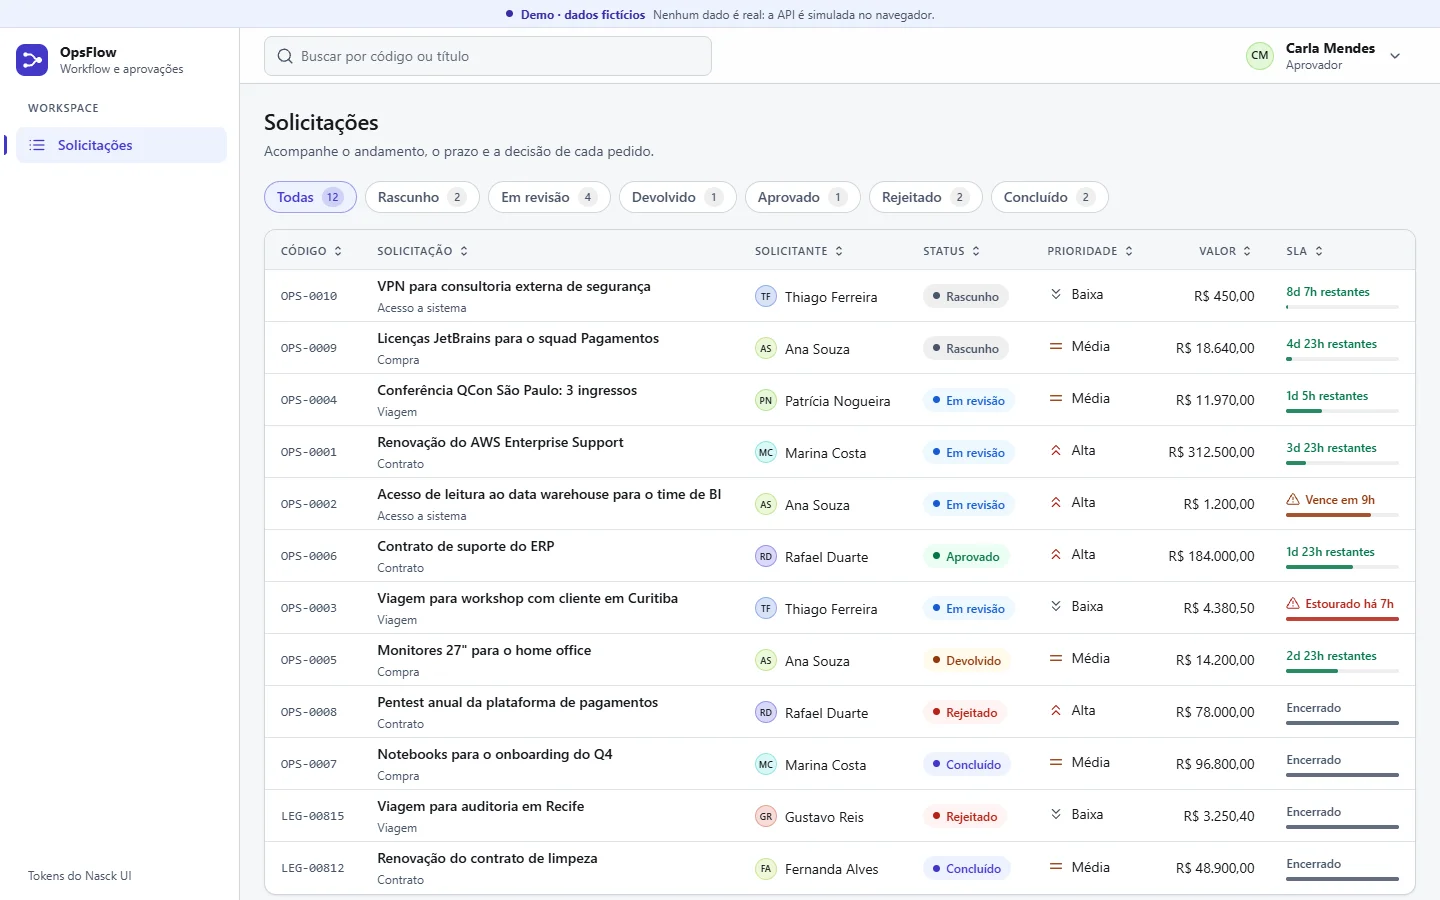
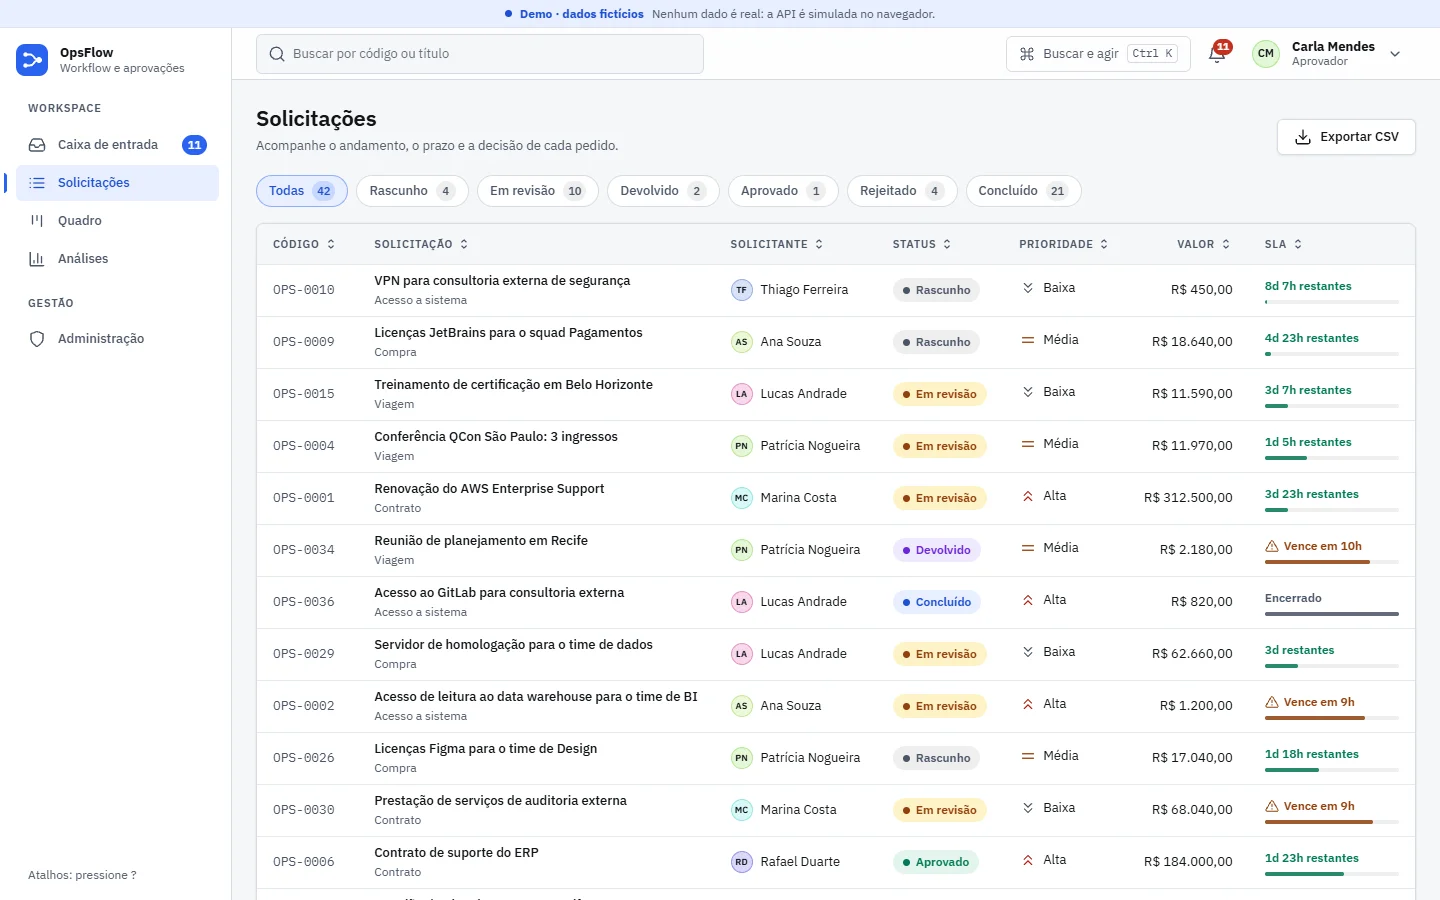
feat: clean mobile overflow, a11y labels, new prints and README for the expanded scope

diff --git a/src/app/core/i18n/translations-features.ts b/src/app/core/i18n/translations-features.ts
@@ -60,8 +60,8 @@ export const featurePt = {
   'inbox.preset.urgent': 'Vencendo',
   'inbox.preset.high': 'Alta prioridade',
   'inbox.preset.contracts': 'Contratos',
-  'inbox.anyPriority': 'Qualquer prioridade',
-  'inbox.anyCategory': 'Qualquer categoria',
+  'inbox.anyPriority': 'Prioridade',
+  'inbox.anyCategory': 'Categoria',
   'inbox.saveFilter': 'Salvar filtro',
   'inbox.filterName': 'Nome do filtro',
   'inbox.save': 'Salvar',
@@ -241,8 +241,8 @@ export const featureEn: Readonly<Record<keyof typeof featurePt, string>> = {
   'inbox.preset.urgent': 'Due soon',
   'inbox.preset.high': 'High priority',
   'inbox.preset.contracts': 'Contracts',
-  'inbox.anyPriority': 'Any priority',
-  'inbox.anyCategory': 'Any category',
+  'inbox.anyPriority': 'Priority',
+  'inbox.anyCategory': 'Category',
   'inbox.saveFilter': 'Save filter',
   'inbox.filterName': 'Filter name',
   'inbox.save': 'Save',

diff --git a/src/app/features/inbox/inbox.html b/src/app/features/inbox/inbox.html
@@ -48,10 +48,6 @@
           }
         </select>
       </label>
-      <label class="check">
-        <input type="checkbox" [checked]="filter().urgentOnly" (change)="patchFilter({ urgentOnly: !filter().urgentOnly })" />
-        {{ 'inbox.preset.urgent' | t }}
-      </label>
       @if (isCustomFilter()) {
         @if (naming()) {
           <form class="name-form" (submit)="$event.preventDefault(); saveFilter(nameField.value)">

diff --git a/src/app/core/ui/toasts.ts b/src/app/core/ui/toasts.ts
@@ -82,9 +82,9 @@ const ICONS: Readonly<Record<ToastKind, IconName>> = {
     }
     @media (max-width: 959px) {
       :host {
-        left: 50%;
-        right: auto;
-        transform: translateX(-50%);
+        left: 0;
+        right: 0;
+        margin: 0 auto;
         bottom: calc(var(--ox-bottomnav-h) + var(--ox-safe-bottom) + var(--ox-space-3));
       }
     }

diff --git a/src/app/features/requests/request-list/request-list.scss b/src/app/features/requests/request-list/request-list.scss
@@ -31,6 +31,7 @@
 }
 
 .chips {
+  position: relative;
   display: flex;
   gap: var(--ox-space-2);
   overflow-x: auto;
@@ -91,6 +92,7 @@
 
 /* Tabela (desktop) */
 .table-wrap {
+  position: relative;
   display: none;
   overflow: hidden;
 }

diff --git a/src/app/features/admin/admin.scss b/src/app/features/admin/admin.scss
@@ -15,6 +15,7 @@
 }
 
 .scroll {
+  position: relative;
   overflow-x: auto;
   margin: 0 calc(var(--ox-space-5) * -1) var(--ox-space-3);
   padding: 0 var(--ox-space-5);

diff --git a/src/app/features/board/board.scss b/src/app/features/board/board.scss
@@ -4,6 +4,7 @@
 }
 
 .board {
+  position: relative;
   display: flex;
   gap: var(--ox-space-3);
   align-items: flex-start;

diff --git a/src/app/features/inbox/inbox.scss b/src/app/features/inbox/inbox.scss
@@ -10,6 +10,7 @@
 }
 
 .chips {
+  position: relative;
   display: flex;
   flex-wrap: wrap;
   gap: var(--ox-space-2);

diff --git a/README.md b/README.md
@@ -1,32 +1,93 @@
-# OpsFlow · Enterprise Workflow & Approval Console
+# OpsFlow · A sala de controle das aprovações
 
-Console de workflow com etapas rastreáveis, permissões por papel, trilha de auditoria imutável e suporte multilíngue (pt-BR/en). Dados 100% fictícios; a API é simulada no navegador.
+Console de workflow e aprovações para quem decide o dia inteiro: cada papel abre o app na **caixa de entrada** das próprias tarefas, com SLA em contagem regressiva, aprovação em lote e atalhos de teclado. Por baixo há uma máquina de estados com permissões por papel, segregação de funções e trilha de auditoria imutável.
+
+Todos os dados são fictícios e a API é simulada no navegador (interceptor HTTP), então o app roda inteiro em qualquer hospedagem estática.
+
+**Demo:** https://nasckdev.github.io/opsflow/
 
 ## Telas
 
-Console com sidebar, barra superior com busca e menu de perfil de demonstração (papel, idioma, tema e falhas simuladas da API). No celular, a navegação vira barra inferior e a tabela vira lista de cards. Capturas em desktop (1440x900) e celular (390x844), com os dados fictícios de exemplo.
+Desktop em 1440x900 e celular em 390x844, com os dados fictícios de exemplo.
+
+![Caixa de entrada do aprovador, com SLA em contagem regressiva e ações por tarefa](docs/prints/opsflow-caixa-entrada-desktop.webp)
+
+<img src="docs/prints/opsflow-caixa-entrada-mobile.webp" alt="Caixa de entrada no celular" width="260"> <img src="docs/prints/opsflow-lista-solicitacoes-mobile.webp" alt="Lista de solicitações no celular, em cartões" width="260"> <img src="docs/prints/opsflow-detalhe-auditoria-mobile.webp" alt="Detalhe com auditoria no celular" width="260">
+
+![Quadro kanban por estado, com arrastar e soltar que respeita a máquina de estados](docs/prints/opsflow-quadro-desktop.webp)
+
+![Análises: vazão por semana, cumprimento de SLA, gargalo por etapa e ações por papel](docs/prints/opsflow-analises-desktop.webp)
+
+![Análises no tema escuro](docs/prints/opsflow-analises-escuro-desktop.webp)
 
 ![Lista de solicitações com status, prioridade e SLA](docs/prints/opsflow-lista-solicitacoes-desktop.webp)
 
-![Lista de solicitações no tema escuro](docs/prints/opsflow-lista-escuro-desktop.webp)
+![Lista no tema escuro](docs/prints/opsflow-lista-escuro-desktop.webp)
 
-![Detalhe de uma solicitação aprovada, com decisão contextual e linha do tempo de auditoria](docs/prints/opsflow-detalhe-auditoria-desktop.webp)
+![Detalhe com cadeia de aprovação, decisão contextual, comentários e auditoria](docs/prints/opsflow-detalhe-auditoria-desktop.webp)
+
+![Paleta de comandos (Ctrl+K)](docs/prints/opsflow-paleta-desktop.webp)
+
+![Matriz de permissões (RBAC)](docs/prints/opsflow-admin-desktop.webp)
 
 ![Wizard de nova solicitação, etapa de detalhes](docs/prints/opsflow-wizard-detalhes-desktop.webp)
 
 ![Wizard de nova solicitação, etapa de revisão](docs/prints/opsflow-wizard-revisao-desktop.webp)
 
-<img src="docs/prints/opsflow-lista-solicitacoes-mobile.webp" alt="Lista de solicitações no celular" width="260"> <img src="docs/prints/opsflow-detalhe-auditoria-mobile.webp" alt="Detalhe com auditoria no celular" width="260">
+## O que o produto faz
 
-## Design
+- **Caixa de entrada por papel.** "Minhas tarefas" com contagem regressiva de SLA, filtros rápidos e salvos, aprovação em lote (só do que não exige justificativa) e atalhos `j`/`k`, `Enter`, `x`, `a`, `r`.
+- **Quadro kanban.** Arrastar com CDK DragDrop. Colunas que aceitam o movimento acendem durante o arraste; um movimento que a máquina de estados não prevê, ou que o papel não pode fazer, é bloqueado com explicação. Alternativa sem mouse: "Mover para" em cada cartão.
+- **Detalhe.** Cabeçalho com status e SLA, cadeia de aprovação (solicitação, revisão, aprovação, conclusão), ações conforme o papel, comentários em thread, anexos simulados e linha do tempo de auditoria.
+- **Nova solicitação.** Wizard em três etapas com validação, **rascunho salvo automaticamente** (recuperado ao recarregar) e revisão antes de enviar.
+- **Análises.** Vazão por semana, cumprimento de SLA, gargalo por etapa e ações por papel. Todo gráfico tem versão em tabela e descrição para leitor de tela.
+- **Administração.** Matriz de permissões visual, usuários de demonstração (atuar como) e as regras do fluxo.
+- **Lista de solicitações.** Tabela densa (ordenação por coluna, contadores por status, busca com debounce) que vira cartões no celular, e exportação em CSV (com proteção contra injeção de fórmula).
+- **Navegação de app.** Sidebar no desktop, barra inferior no celular, busca global, paleta de comandos (`Ctrl`/`⌘` + `K`), notificações, modal de atalhos (`?`) e estado na URL (rota por hash).
+- **Preferências.** Papel, idioma (pt-BR e English, com plural correto), tema claro e escuro, densidade compacta ou confortável e "Simular falhas da API".
 
-O visual usa os tokens do design system Nasck UI (cores, espaçamento, raio, sombra, tipografia e movimento), copiados sem alteração para `src/styles/tokens.css` (origem e commit no cabeçalho do arquivo). O que o Nasck UI ainda não define (medidas do shell, aliases de superfície por tema) fica em `src/styles/base.scss`, com prefixo `--ox-`. Tema claro e escuro, foco visível, contraste AA, link de pular para o conteúdo e `prefers-reduced-motion` respeitado.
+## Atalhos
+
+| Tecla | Ação |
+|---|---|
+| `Ctrl`/`⌘` + `K` | Paleta de comandos |
+| `?` | Lista de atalhos |
+| `/` | Ir para a busca |
+| `g` `i` / `g` `r` / `g` `b` / `g` `a` | Caixa de entrada / solicitações / quadro / análises |
+| `j` `k` | Próxima e anterior tarefa (caixa de entrada) |
+| `Enter` / `x` / `a` / `r` | Abrir / selecionar para lote / aprovar / rejeitar ou devolver |
+
+## Identidade visual
+
+IBM Plex Sans na interface e IBM Plex Mono em códigos, IDs e prazos, ambas auto-hospedadas via `@fontsource` (nenhuma requisição externa). Grafite `#111418` e aço `#1C2128` no escuro, azul elétrico `#2F6BFF` como marca e ciano de destaque. Estados com cor semântica e sempre acompanhados de texto ou ícone: aprovado esmeralda, pendente âmbar, devolvido violeta, rejeitado vermelho, rascunho cinza. Cantos de 4 a 8 px e densidade ajustável.
+
+Os tokens vivem em `src/styles/tokens.scss`; as medidas do shell e os aliases de superfície, em `src/styles/base.scss`. No tema claro o ciano de gráficos é um tom mais escuro que o da marca, para manter 3:1 de contraste contra o fundo branco.
 
 ## Stack
 
-Angular 22 (standalone, signals, zoneless, control flow `@if/@for`), formulários reativos tipados, RxJS (busca com debounce e cancelamento via `switchMap`), Angular CDK (`LiveAnnouncer`, `Overlay`, `TrapFocus`), Vitest.
+Angular 22 (standalone, signals, zoneless, control flow `@if/@for`), formulários reativos tipados, RxJS (busca com debounce e cancelamento via `switchMap`), Angular CDK (`Overlay`, `Dialog`, `DragDrop`, `TrapFocus`, `LiveAnnouncer`), SCSS, Vitest e Playwright + axe-core. Gráficos em SVG próprio, sem biblioteca.
 
-## Máquina de estados
+## Arquitetura
+
+```mermaid
+flowchart TD
+  UI["Telas (features/*)<br/>caixa de entrada · quadro · detalhe · wizard · análises · admin"]
+  SHELL["Shell e UI de apoio<br/>popovers · paleta · atalhos · toasts"]
+  SVC["Serviços (core/*)<br/>RequestsStore · TransitionService · sessão · i18n · tema"]
+  DOM["Domínio puro (domain/*)<br/>máquina de estados · RBAC · SLA · cadeia · analytics · inbox"]
+  API["RequestsApi (HttpClient)"]
+  MOCK["Interceptor mock<br/>MockDatabase em memória"]
+  UI --> SVC
+  SHELL --> SVC
+  UI --> DOM
+  SVC --> DOM
+  SVC --> API --> MOCK
+  MOCK --> DOM
+```
+
+O domínio é feito só de funções puras e testadas (`src/app/domain`). A interface nunca decide uma regra: ela pergunta ao domínio (`availableActions`, `checkTransition`, `requiresComment`) e o `TransitionService` é o único caminho para executar uma ação, seja pelo detalhe, pelo quadro ou pela caixa de entrada.
+
+### Máquina de estados
 
 ```mermaid
 stateDiagram-v2
@@ -41,9 +102,9 @@ stateDiagram-v2
   completed --> [*]
 ```
 
-Guardas: permissão do papel, estado de origem, segregação de funções (quem criou não decide) e SLA.
+Guardas: permissão do papel, estado de origem, segregação de funções (quem criou não devolve, aprova nem rejeita) e SLA.
 
-## Matriz RBAC
+### Matriz RBAC
 
 | Permissão | Solicitante | Revisor | Aprovador | Auditor | Admin |
 |---|:-:|:-:|:-:|:-:|:-:|
@@ -54,30 +115,63 @@ Guardas: permissão do papel, estado de origem, segregação de funções (quem 
 | request.complete | | | ✓ | | ✓ |
 | audit.view | | ✓ | ✓ | ✓ | ✓ |
 
-Testada por tabela em `src/app/domain/permissions.spec.ts`.
+Testada por tabela em `src/app/domain/permissions.spec.ts` e exibida na tela Administração.
 
-## Migração de legado
+### Migração de legado
 
 `src/app/domain/legacy-adapter.ts` converte o JSON do sistema antigo (`STATUS_CD`, datas `dd/mm/aaaa`, valores `1.234,56`) para o domínio novo, validando cada campo e registrando a migração na auditoria.
+
+## Decisões
+
+1. **Cache único de solicitações (`RequestsStore`).** Caixa de entrada, quadro, análises, notificações e paleta leem do mesmo signal; uma ação em qualquer tela atualiza todas.
+2. **Uma porta para executar ações (`TransitionService`).** Valida no domínio, pede o comentário obrigatório num diálogo, chama a API, atualiza o cache e avisa o usuário. Evita três implementações divergentes da mesma regra.
+3. **Visões derivadas, não novos estados.** Cadeia de aprovação, notificações, caixa de entrada e análises são calculadas a partir da trilha de auditoria. O domínio e a máquina de estados não mudaram.
+4. **Gráficos em SVG próprio.** Controle total de cor, contraste, animação e acessibilidade, sem dependência pesada. Cada gráfico tem tabela equivalente.
+5. **Rota por hash e build portátil.** O mesmo artefato funciona em `/opsflow/` (Pages) e em qualquer subcaminho do portfólio.
+6. **Entradas do navegador não são confiáveis.** Rascunho do wizard e filtros salvos são validados campo a campo antes de usar; CSV neutraliza fórmulas; nomes de anexo são saneados.
+7. **Plural no dicionário.** Textos usam `{count, plural, one {…} other {…}}` em vez de "item(ns)".
+
+## Acessibilidade
+
+- Meta WCAG 2.2 AA. O E2E roda o **axe-core** em 7 telas nos dois temas (14 verificações) e exige zero violações.
+- Link "Pular para o conteúdo", landmarks, títulos em ordem, rótulos em todos os campos e erros ligados ao campo (`aria-describedby`).
+- Teclado em tudo: foco sempre visível, diálogos com foco preso, `Esc` fecha e o foco volta a quem abriu.
+- Cor nunca é o único sinal: status levam texto, SLA leva ícone e texto, prioridade leva ícone.
+- Alvos de 44 px e `safe-area` no celular; sem rolagem horizontal da página.
+- `prefers-reduced-motion` desliga animações e contadores.
+- Regiões vivas (`LiveAnnouncer` e toasts) para resultados assíncronos.
+
+## Testes
+
+- **150 testes unitários** (Vitest, 10 arquivos): máquina de estados, RBAC, SLA, auditoria, migração de legado, cadeia de aprovação, caixa de entrada, notificações, análises, ordenação, filtros, CSV, rascunho, plural e paridade dos dicionários pt-BR e en (inclui varredura das chaves usadas nos templates).
+- **28 testes E2E** (Playwright + axe) contra o build portátil servido em `/projetos/opsflow/`: axe nos dois temas, aprovar da caixa de entrada, comentário obrigatório, aprovação em lote, atalhos, arrastar no quadro (transição inválida bloqueada), segregação de funções, auditor somente leitura, comentários, rascunho do wizard, criação de solicitação, paleta, recarregar em rota interna e inglês.
+
+## Desempenho
+
+Bundle inicial: **491 kB** (125 kB transferidos). Cada tela é carregada sob demanda (o maior bloco é o quadro, com 68 kB, por causa do CDK DragDrop). Fontes em `woff2`, só o subconjunto latino.
 
 ## Como rodar
 
 ```bash
 npm ci
-npm start        # http://localhost:4200
-npx ng test      # testes unitários (Vitest)
+npm start               # http://localhost:4200
+npx ng test             # testes unitários (Vitest)
+npm run lint            # ESLint (angular-eslint, configuração flat)
 npm run build
-npm run lint     # ESLint (angular-eslint, configuração flat)
+npm run build:portable  # dist-portable/ (base ./, rota por hash)
+npm run e2e             # Playwright + axe (usa o Chrome instalado e o build portátil)
 ```
 
 ### Build portátil (qualquer subcaminho)
 
-```bash
-npm run build:portable   # gera dist-portable/ (configuração "portable": base href ./)
-```
+`npm run build:portable` gera `dist-portable/` com caminhos relativos e roteamento por hash, então funciona servido em qualquer subcaminho, por exemplo `/projetos/opsflow/`. O deploy do Pages continua usando `--base-href /opsflow/`. O E2E serve exatamente essa pasta num subcaminho para provar isso.
 
-A pasta usa caminhos relativos e roteamento por hash, então funciona servida em qualquer subcaminho,
-por exemplo `/projetos/opsflow/`. O deploy do Pages continua usando `--base-href /opsflow/`.
+## O que ficou de fora
+
+- Estado dos filtros da caixa de entrada e da lista na URL (hoje só a rota fica na URL; filtros salvos ficam no navegador).
+- Desfazer uma decisão: a máquina de estados não tem transição inversa, então não há "desfazer" honesto.
+- Anexos reais: são simulados (só o nome do arquivo é registrado).
+- Teste de componente em jsdom para os fluxos principais: a cobertura de interface está no E2E.
 
 ## Licença
 
